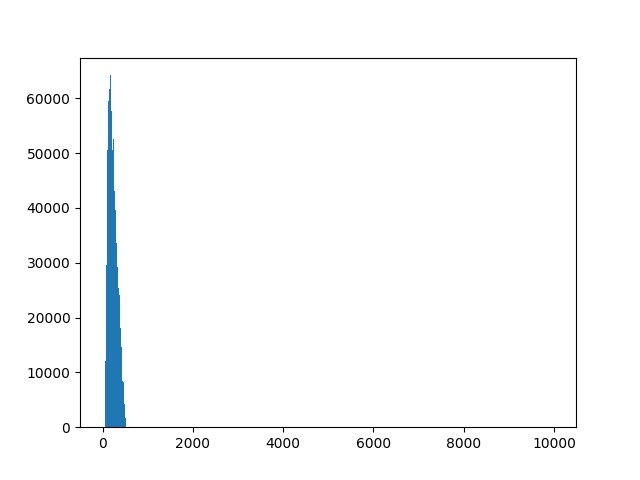
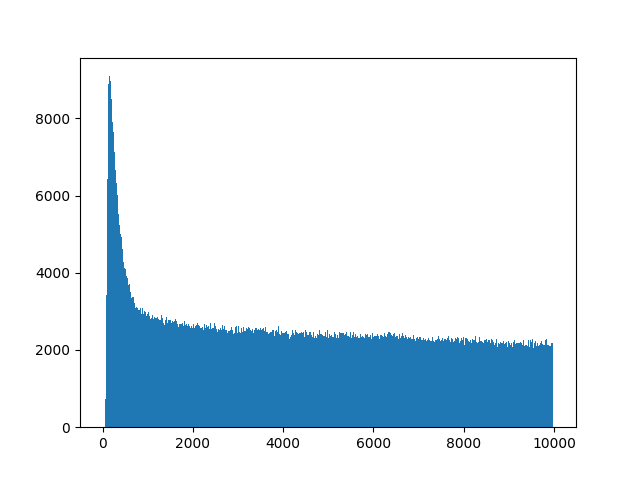
j

diff --git a/readeve.py b/readeve.py
@@ -2,8 +2,27 @@ import numpy as np
 import tifffile
 import matplotlib.pyplot as plt
 from itertools import product
+from scipy.fft import fft, fftfreq
 
-path = f"eve_data/Experimental/2022-12-08"
+"""
+# Number of sample points
+N = 600
+# sample spacing
+T = 1.0 / 800.0
+x = np.linspace(0.0, N*T, N, endpoint=False)
+y = np.sin(50.0 * 2.0*np.pi*x) + 0.5*np.sin(80.0 * 2.0*np.pi*x)
+yf = fft(y)
+xf = fftfreq(N, T)[:N//2]
+
+plt.figure()
+plt.plot(x, y)
+plt.figure()
+plt.plot(xf, 2.0/N * np.abs(yf[0:N//2]))
+plt.grid()
+plt.show()
+"""
+
+path = f"eve_data/Simulated/2025-02-27/Tracking evb diffusion_coefficient=[0.1, 1.0] background_level=50.0"
 filename = f"{path}/Events.npy"
 new_filename = f"{path}/Events.npz"
 imagename = f"{path}/Events_image.npz"
@@ -34,27 +53,35 @@ np.savez(new_filename, x=xs, y=ys, time_stamps=time_stamps, polarity=polarity)
 """
 
 
-upper_t_limit = 50000000 # 50sec
 
-"""
+time_div = 1000
+upper_t_limit = 50000 # in ms. 50sec
+
 gt_data = np.load(gt)
+
 gt_xranges = []
 gt_yranges = []
 gt_tranges = []
+print(gt_data)
+gt_indices = list(set([d[0] for d in gt_data]))
+registered_gt_indice = []
 for gt_d in gt_data:
-    if gt_d[2] < upper_t_limit:
-        gt_xranges.append(np.arange(int(max(0, gt_d[4] - 15)), int(gt_d[4] + 15)))
-        gt_yranges.append(np.arange(int(max(0, gt_d[3] - 15)), int(gt_d[3] + 15)))
-        gt_tranges.append([int(max(0, gt_d[2] - 20000)), int(gt_d[2] + 500000)])
+    if gt_d[0] not in registered_gt_indice and gt_d[0] < 999:
+        if gt_d[2] / time_div < upper_t_limit:
+            gt_xranges.append(np.arange(int(max(0, gt_d[4] - 5)), int(gt_d[4] + 5)))
+            gt_yranges.append(np.arange(int(max(0, gt_d[3] - 5)), int(gt_d[3] + 5)))
+            gt_tranges.append([int(max(0, gt_d[2] - 20000)), int(gt_d[2] + 500000)])
+            registered_gt_indice.append(gt_d[0])
+print(registered_gt_indice)
 xranges = gt_xranges
 yranges = gt_yranges
 tranges = gt_tranges
-"""
+
 
 data = np.load(new_filename)
 xs = data['x']
 ys = data['y']
-ts = data['time_stamps']
+ts = data['time_stamps'].astype(np.float64) / time_div
 ps = data['polarity']
 
 selected_args = np.argwhere(ts < upper_t_limit).flatten()
@@ -105,22 +132,26 @@ tranges = [[0, 10000000],
            [0, 10000000],
            ]
 """
-"""
+window_length = 20
+
 for iii, (xrange, yrange, trange) in enumerate(zip(xranges, yranges, tranges)):
     print(f"{iii} / {len(xranges)}")
     for arr_x, arr_y in product(xrange, yrange):
+        #sliding_window_x = np.arange(max(0, arr_x - window_length//2), min(x_max, arr_x + window_length//2), 1)
+        #sliding_window_y = np.arange(max(0, arr_y - window_length//2), min(y_max, arr_y + window_length//2), 1)
+        #for cur_x, cur_y in product(sliding_window_x, sliding_window_y):
         indices = np.argwhere((xs == arr_x) & (ys == arr_y)).flatten()
 
-        target_ts = ts[indices].astype(np.int32)
-        target_ps = ps[indices].astype(np.int32)
-        print(arr_x, arr_y)
-        print(target_ts)
-        print(target_ps)
+        target_ts = ts[indices].astype(np.float64)
+        target_ps = ps[indices].astype(np.int16)
+        #print(arr_x, arr_y)
+        #print(target_ts)
+        #print(target_ps)
 
-        roi_ts = np.argwhere((trange[0] < target_ts) & (target_ts < trange[1])).flatten()
+        #roi_ts = np.argwhere((trange[0] < target_ts) & (target_ts < trange[1])).flatten()
         
-        target_ts = target_ts[roi_ts]
-        target_ps = target_ps[roi_ts]
+        #target_ts = target_ts[roi_ts]
+        #target_ps = target_ps[roi_ts]
 
         positive_args = np.argwhere(target_ps == 1).flatten()
         negative_args = np.argwhere(target_ps == 0).flatten()
@@ -129,24 +160,35 @@ for iii, (xrange, yrange, trange) in enumerate(zip(xranges, yranges, tranges)):
         negative_ts = target_ts[negative_args]
 
 
-        diff_ts = abs(np.diff(target_ts))
-        diff_ts_concat.extend(list(diff_ts))
+        #diff_ts = abs(np.diff(target_ts))
+        #diff_ts_concat.extend(list(diff_ts))
+        print(target_ts, target_ps)
+        plt.close('all')
+        plt.figure(figsize=(10, 10))
+        plt.vlines(negative_ts, ymin=-1, ymax=0, colors='red')
+        plt.vlines(positive_ts, ymin=0, ymax=1, colors='blue')
 
+
+        yf = fft(positive_ts)
+        xf = fftfreq(len(positive_ts), 100)[:len(positive_ts)//2]
+        plt.figure()
+        plt.plot(xf, 2.0/len(positive_ts) * np.abs(yf[0:len(positive_ts)//2]))
+        plt.show()
         for positive_t in positive_ts:
             for negative_t in negative_ts:
-                if negative_t > positive_t:
+                if negative_t > positive_t and negative_t < positive_t + 10000:
                     positive_to_negative.append(negative_t - positive_t)
                 
 
 
-diff_ts_concat = np.array(diff_ts_concat) / 1000.
-positive_to_negative = np.array(positive_to_negative) / 1000.
+#diff_ts_concat = np.array(diff_ts_concat) / 1000.
+positive_to_negative = np.array(positive_to_negative, dtype=np.float64)
 print(positive_ts, negative_ts)
 print(positive_to_negative)
 
-plt.figure()
-plt.hist(diff_ts_concat, bins=np.arange(0, 10000, 10))
-plt.savefig('1.png')
+#plt.figure()
+#plt.hist(diff_ts_concat, bins=np.arange(0, 10000, 10))
+#plt.savefig('1.png')
 
 plt.figure()
 plt.hist(positive_to_negative, bins=np.arange(0, 10000, 10))
@@ -154,11 +196,11 @@ plt.savefig('2.png')
 plt.show()
 #array_ = xs[:,0]
 
-"""
 
 
+
 """
-timebin = 10000
+timebin = 500000
 grid = np.zeros(((int(t_max / timebin) + 1), (y_max + 1), (x_max + 1) * 2), dtype=np.uint8)
 
 for x, y, t, p in zip(xs, ys, ts, ps):
@@ -175,5 +217,5 @@ np.savez(imagename, data=grid)
 
 data = np.load(imagename)['data'][:10000,:,:]
 print(data, data.dtype)
-tifffile.imwrite(f"eve_data/Experimental/2022-12-08/video_{int(timebin / 1000)}ms.tiff", data=data, imagej=True)
+tifffile.imwrite(f"{path}/video_{int(timebin / 1000)}ms.tiff", data=data, imagej=True)
 """
